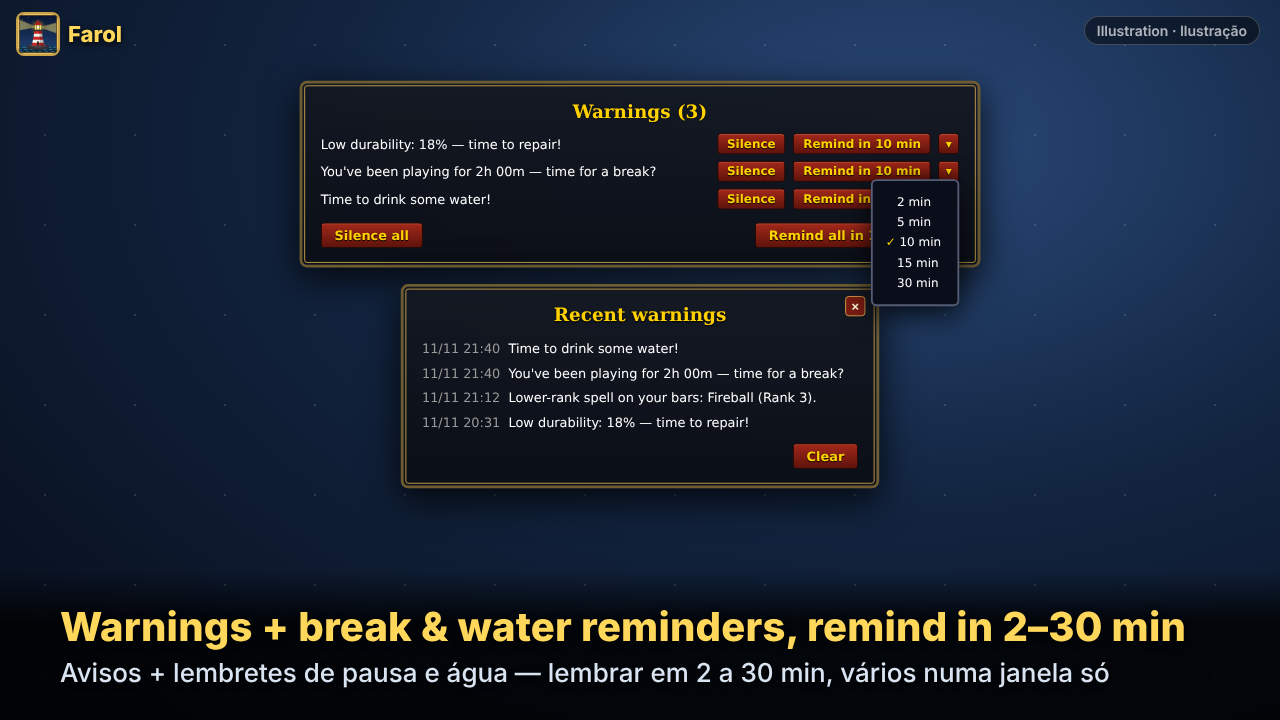
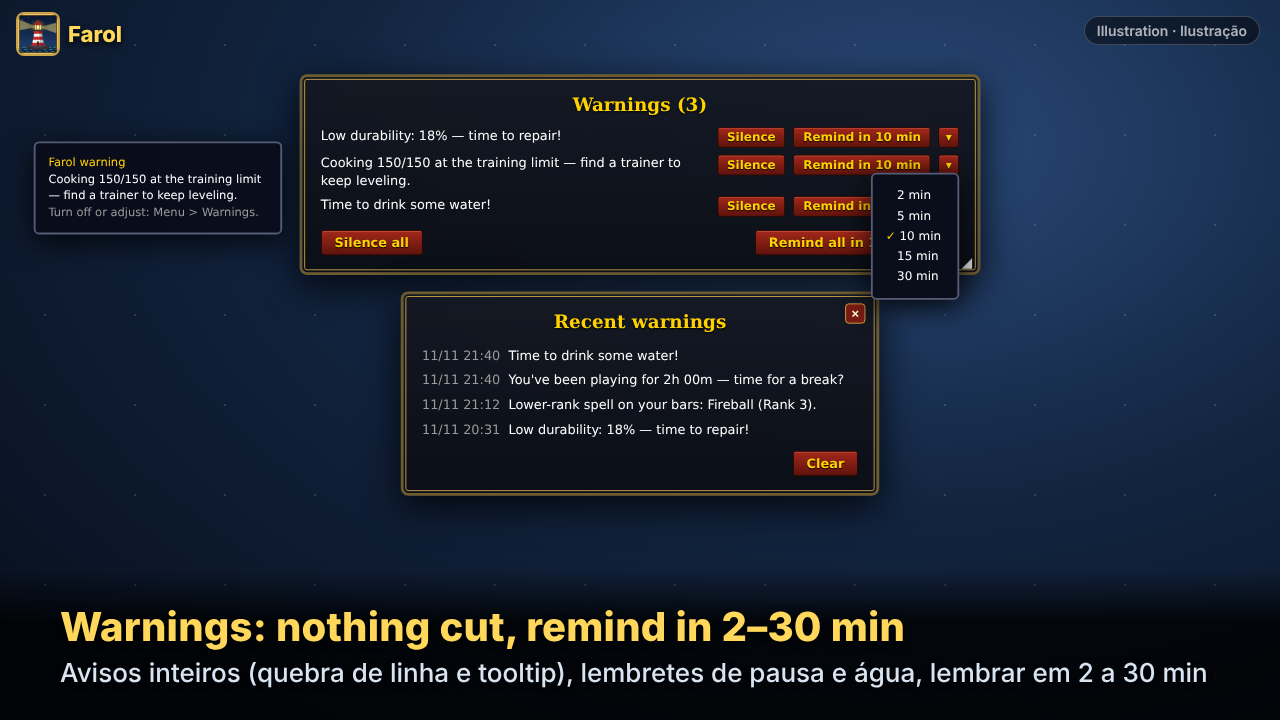
3.21.0: warnings window shows the whole text
- Long warnings wrap onto up to 3 lines and the window grows taller (one or several
  warnings); no more cut text with an ellipsis.
- Hovering a warning shows a tooltip with the whole text, what it is about and where to
  adjust it.
- Corner grip to make the window wider or narrower (warnings.popupW, validated;
  right-click or Reset position goes back to the default).
- Tests: wrapping, tooltip, grip, validation, English, old client; image 06 updated.

Claude-Session: https://claude.ai/code/session_01BGNd8jLBZJw5iNs8DwdX47

diff --git a/assets/curseforge/make_pages.py b/assets/curseforge/make_pages.py
@@ -172,7 +172,7 @@ page("farol-05-recent-loot-window", loot, "Recent loot: when you got it, quality
 
 # 6. Warnings: grouped window with remind-time dropdowns + history
 def wrow(text):
-    return (f'<div style="display:flex;align-items:center;gap:8px;margin:7px 0"><span style="flex:1;font-size:14px;white-space:nowrap">{text}</span>'
+    return (f'<div style="display:flex;align-items:flex-start;gap:8px;margin:7px 0"><span style="flex:1;font-size:14px;line-height:1.35">{text}</span>'
             '<span class="btn" style="padding:3px 10px;font-size:13px">Silence</span>'
             '<span class="btn" style="padding:3px 10px;font-size:13px">Remind in 10 min</span>'
             '<span class="btn" style="padding:3px 7px;font-size:13px">▾</span></div>')
@@ -180,10 +180,12 @@ dd6 = """<div class="tip" style="position:absolute;right:20px;top:104px;width:96
 <div>&nbsp;&nbsp;&nbsp;2 min</div><div>&nbsp;&nbsp;&nbsp;5 min</div><div><span class="k">✓</span> 10 min</div><div>&nbsp;&nbsp;&nbsp;15 min</div><div>&nbsp;&nbsp;&nbsp;30 min</div></div>"""
 warnpop = f"""<div class="win" style="width:740px"><div class="t">Warnings (3)</div>{dd6}
 {wrow("Low durability: 18% — time to repair!")}
-{wrow("You've been playing for 2h 00m — time for a break?")}
+{wrow("Cooking 150/150 at the training limit — find a trainer to keep leveling.")}
 {wrow("Time to drink some water!")}
 <div style="display:flex;justify-content:space-between;margin-top:14px"><span class="btn">Silence all</span>
-<span><span class="btn">Remind all in 10 min</span> <span class="btn" style="padding:5px 8px">▾</span></span></div></div>"""
+<span><span class="btn">Remind all in 10 min</span> <span class="btn" style="padding:5px 8px">▾</span></span></div>
+<div style="position:absolute;right:6px;bottom:2px;color:#ddd;font-size:15px">◢</div>
+<div class="tip" style="position:absolute;left:-292px;top:70px;width:270px;font-size:12.5px;line-height:1.45;z-index:3"><div class="k">Farol warning</div><div>Cooking 150/150 at the training limit — find a trainer to keep leveling.</div><div class="dim">Turn off or adjust: Menu &gt; Warnings.</div></div></div>"""
 hist = """<div class="win" style="width:520px"><div class="x">×</div><div class="t">Recent warnings</div>
 <div style="font-size:14px;line-height:1.9"><div><span class="dim">11/11 21:40</span>&nbsp; Time to drink some water!</div>
 <div><span class="dim">11/11 21:40</span>&nbsp; You've been playing for 2h 00m — time for a break?</div>
@@ -191,7 +193,7 @@ hist = """<div class="win" style="width:520px"><div class="x">×</div><div class
 <div><span class="dim">11/11 20:31</span>&nbsp; Low durability: 18% — time to repair!</div></div>
 <div style="text-align:right;margin-top:10px"><span class="btn">Clear</span></div></div>"""
 page("farol-06-warnings-break-water-reminders", f'<div style="display:flex;flex-direction:column;gap:18px;align-items:center;transform:scale(.92)">{warnpop}{hist}</div>',
-     "Warnings + break & water reminders, remind in 2–30 min", "Avisos + lembretes de pausa e água — lembrar em 2 a 30 min, vários numa janela só")
+     "Warnings: nothing cut, remind in 2–30 min", "Avisos inteiros (quebra de linha e tooltip), lembretes de pausa e água, lembrar em 2 a 30 min")
 
 # 7. Appearance
 def stepper(label, value): return f'<div style="display:flex;align-items:center;gap:10px;margin:7px 0"><span class="k" style="width:110px">{label}</span><span class="btn" style="padding:2px 9px">-</span><span style="width:52px;text-align:center">{value}</span><span class="btn" style="padding:2px 9px">+</span></div>'

diff --git a/assets/curseforge-description.md b/assets/curseforge-description.md
@@ -40,6 +40,7 @@ FPS · Latency · Memory · Coordinates · Zone · Speed · **Hearthstone: where
 - **Ammo and reagents running low**, with the warning/critical limits you choose (off by default; Farol never buys anything).
 - Each warning lets you **Silence** it or get a **reminder in 2, 5, 10, 15 or 30 minutes** (your choice). Several warnings at once appear together in one window.
 - Optional **break** and **drink water** reminders (off by default): you choose how often (15–240 min) and whether they can show during fights, raids and dungeons.
+- Long warnings are never cut: they wrap onto up to 3 lines, hovering shows the whole text, and the warning window can be made wider with the ◢ grip.
 - **History of the last 10 warnings**: button next to the bar (with unread counter), key binding or `/farol history`.
 
 ### Session summary
@@ -101,6 +102,7 @@ FPS · Latência · Memória · Coordenadas · Zona · Velocidade · **Pedra de 
 - **Munição e reagentes acabando**, com os limites de atenção/crítico que você escolhe (desligado por padrão; o Farol nunca compra nada).
 - Cada aviso deixa você **Silenciar** ou ser **lembrado em 2, 5, 10, 15 ou 30 minutos** (você escolhe). Vários avisos ao mesmo tempo aparecem juntos numa janela só.
 - Lembretes opcionais de **pausa** e de **beber água** (desligados por padrão): você escolhe de quanto em quanto tempo (15–240 min) e se podem aparecer em lutas, raides e masmorras.
+- Avisos longos nunca ficam cortados: quebram em até 3 linhas, passar o mouse mostra o texto inteiro e a janela de avisos pode ficar mais larga com a alça ◢.
 - **Histórico dos 10 últimos avisos**: botão ao lado da barra (com contador de novos), atalho de teclado ou `/farol historico`.
 
 ### Resumo da sessão

diff --git a/assets/curseforge/README.md b/assets/curseforge/README.md
@@ -14,7 +14,7 @@ fiéis das janelas do addon, não prints do jogo; por isso cada imagem tem o sel
 | `farol-03-options-menu-bar-order.png` | Menu: presets with Undo, items in groups, a gear each | Menu: pacotes prontos com Desfazer, itens em grupos e engrenagem |
 | `farol-04-clock-alarms-snooze.png` | Clock alarms with snooze — local or server time | Alarmes do relógio com soneca — hora local ou do servidor |
 | `farol-05-recent-loot-window.png` | Recent loot: when you got it, quality filter, + Goal to track | Últimos saques: quando você pegou, filtro de qualidade e + Meta |
-| `farol-06-warnings-break-water-reminders.png` | Warnings + break & water reminders, remind in 2–30 min | Avisos + lembretes de pausa e água — lembrar em 2 a 30 min |
+| `farol-06-warnings-break-water-reminders.png` | Warnings: nothing cut, remind in 2–30 min | Avisos inteiros (quebra de linha e tooltip), lembretes de pausa e água, lembrar em 2 a 30 min |
 | `farol-07-appearance-settings.png` | Make it yours: shape, size, background, hide in combat | Do seu jeito: formato, tamanho, fundo, esconder em combate |
 | `farol-08-progress-xp-reputation-professions.png` | Progress: XP, reputation, professions, goals, farm, quests | Seu progresso: XP, reputação, profissões, metas, farm e missões |
 | `farol-09-session-summary-chat.png` | Session summary: gold & XP by source, rep, loot | Resumo da sessão: ouro e XP por origem, reputação e saques |

diff --git a/CLAUDE.md b/CLAUDE.md
@@ -163,7 +163,8 @@ Farol/
   Alarm.lua         alarmes do relógio, soneca, janela e janelinha
   Loot.lua          janela de últimos saques, menus suspensos próprios, botão 👜
   Warnings.lua      avisos (durabilidade, bolsas, talentos, graus, profissões, munição, reagentes, pausa, água, tarefas),
-                    "Silenciar / Lembrar em N min" (2–30), janela agrupada para vários avisos, histórico 📝, controles da aba Avisos
+                    "Silenciar / Lembrar em N min" (2–30), janela agrupada para vários avisos (texto quebra em até 3 linhas,
+                    tooltip com o aviso inteiro, alça ◢ de largura em `warnings.popupW`), histórico 📝, controles da aba Avisos
   Appearance.lua    escala, fundo, tamanhos de texto/ícone, formato (uma linha / uma coluna), esconder em combate,
                     mostrar/esconder os botões rápidos 📝 👜
   Order.lua         ordem dos itens na barra
@@ -271,7 +272,7 @@ assets/             ícones, texto do CurseForge, imagens de divulgação (asset
 ## Testes
 
 ```
-lua5.1 tests/run.lua        # ~710 testes (2 passadas); deve terminar com "0 failed"
+lua5.1 tests/run.lua        # ~720 testes (2 passadas); deve terminar com "0 failed"
 ```
 
 - **Duas passadas (3.18):** a 1ª com o simulador "de livro"; a 2ª, **forever-real** (`Mock.REAL`), com reino `""` e

diff --git a/CHANGELOG.md b/CHANGELOG.md
@@ -2,6 +2,15 @@
 
 All notable changes to Farol. Versions follow the `## Version:` line of the `.toc` files.
 
+## 3.21.0 — Warnings window: nothing cut
+- Long warnings no longer end in "…": each one wraps onto up to 3 lines and the window grows taller (one warning or
+  several); the Silence / Remind buttons stay at the right of each warning.
+- Hovering a warning shows a tooltip with the whole text, what that warning is about and where to adjust it
+  (Menu > Warnings).
+- New **◢ grip** in the corner of the warnings window: drag to make it wider or narrower (520–1400 px, saved in
+  `warnings.popupW`, validated on load); right-click the grip, or **Reset position**, goes back to the default width.
+- Image 06 updated. 722 tests (2 passes).
+
 ## 3.20.0 — Farol messages in a chat tab of their own
 - New option in Menu > General, **"Farol messages in"** (and `/farol chat Name`): choose which of your chat windows
   Farol writes to, for example a tab named "Farol" that you create (right-click a chat tab → New Window). Default:

diff --git a/README.pt-BR.md b/README.pt-BR.md
@@ -265,6 +265,9 @@ Cada aviso abre uma janelinha com duas opções:
 - Um lembrete por tipo de aviso: lembrar de novo troca o horário anterior. Lembrete de um problema que já foi
   resolvido (você reparou, gastou os pontos…) é descartado. Os lembretes acabam no `/reload` ou ao sair do jogo.
 - No chat: `/farol aviso silenciar` e `/farol aviso lembrar [minutos]` (todos os avisos abertos), `/farol aviso padrao 10`.
+- **Nada fica cortado (desde a 3.21):** um aviso longo quebra em até 3 linhas e a janela cresce na altura; passe o
+  mouse num aviso para ver o texto inteiro, do que ele trata e onde ajustar. Arraste a **alça ◢** no canto para deixar
+  a janela mais larga ou mais estreita (fica salvo; clique direito na alça ou **Posição padrão** volta à largura padrão).
 
 ### Histórico de avisos
 

diff --git a/README.md b/README.md
@@ -262,6 +262,9 @@ Every warning opens a small window with two choices:
 - One reminder per warning type: reminding again replaces the previous time. A reminder whose problem is
   already solved (you repaired, spent the points…) is dropped. Reminders end with `/reload` or logout.
 - Chat: `/farol warn silence` and `/farol warn remind [minutes]` (all open warnings), `/farol warn default 10`.
+- **Nothing is cut (since 3.21):** a long warning wraps onto up to 3 lines and the window grows taller; hover a
+  warning to see the whole text, what it is about and where to adjust it. Drag the **◢ grip** in the corner to make
+  the window wider or narrower (saved; right-click the grip or **Reset position** goes back to the default width).
 
 ### Warning history
 
